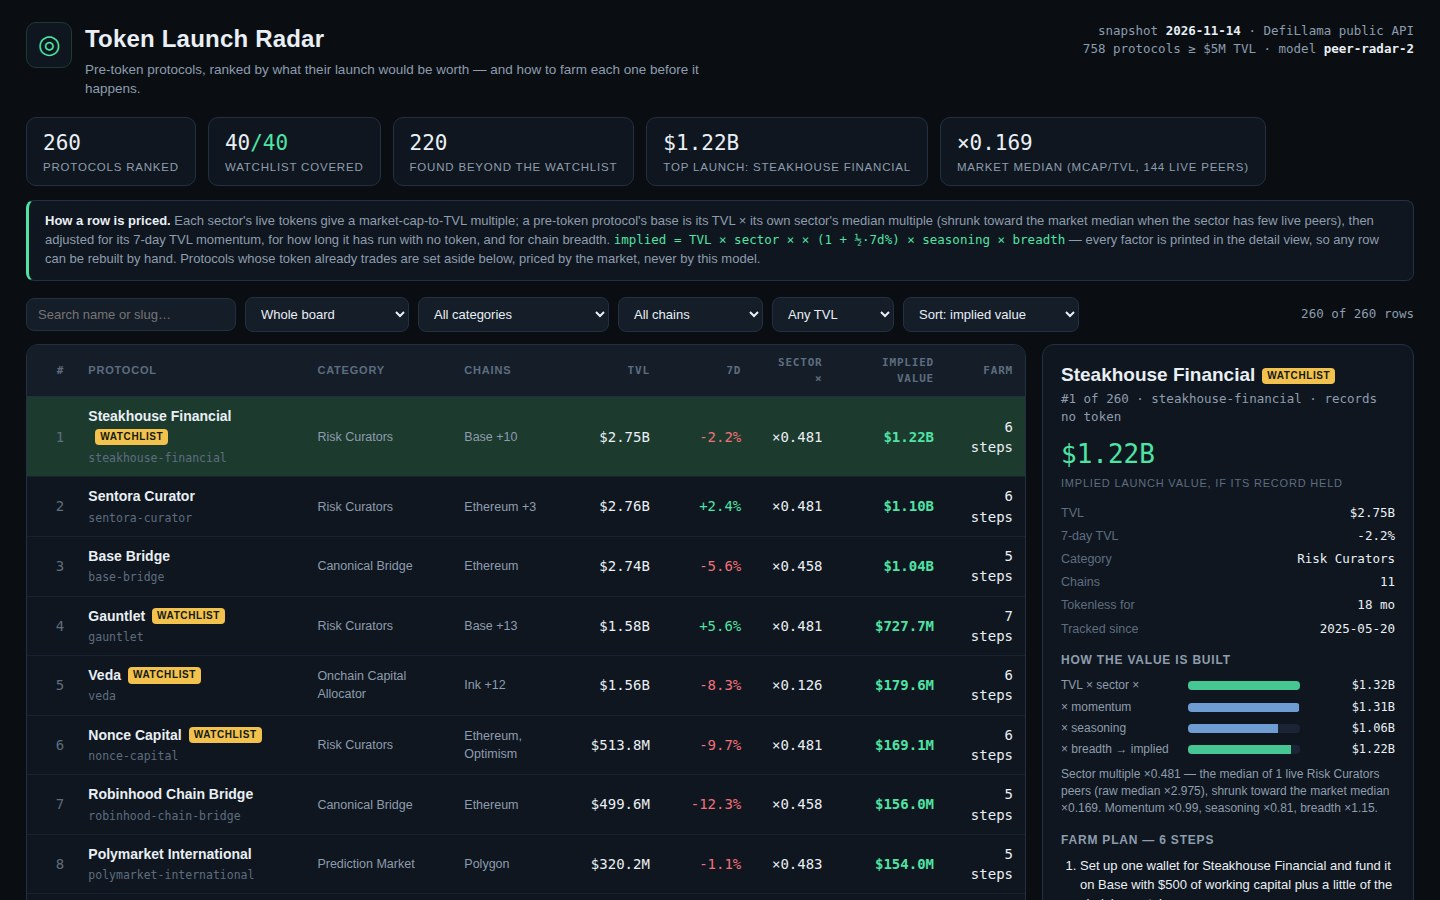
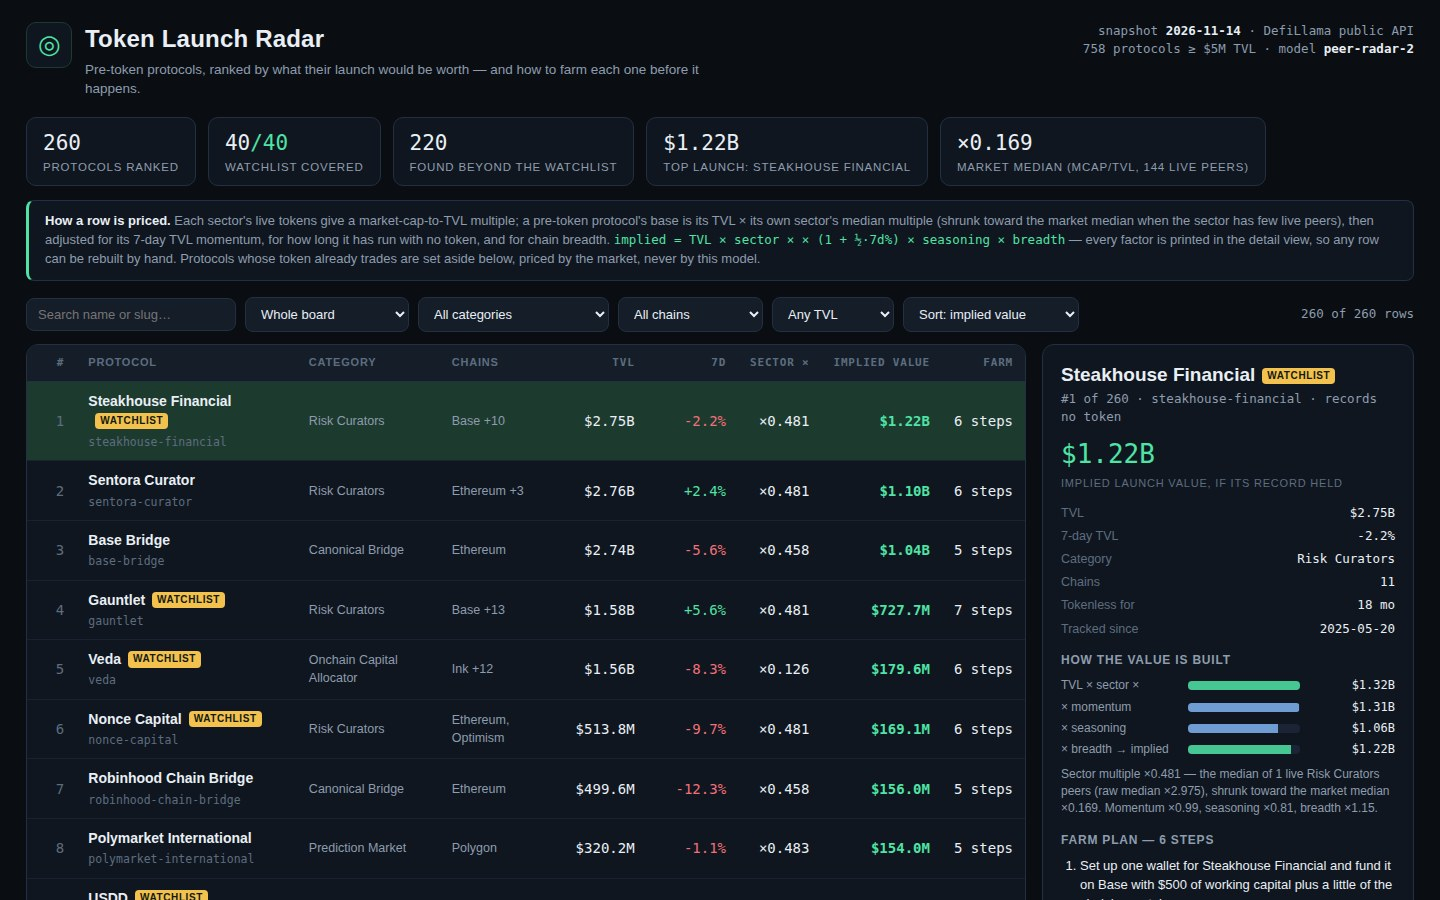
Polish: nowrap numeric columns, meta description, run timing, owner.json

diff --git a/main.ts b/main.ts
@@ -36,6 +36,7 @@ if (!existsSync(inputFile)) {
 }
 const out = arg('output', process.env.MAKEFUN_OUTPUT_DIR ?? '/output');
 
+const startedAt = Date.now();
 const snapshot = parseSnapshot(readFileSync(inputFile, 'utf8'));
 const { board, radar } = buildRadar(snapshot);
 const issue = boardIssue(board, snapshot);
@@ -82,5 +83,5 @@ writeFileSync(
 
 process.stdout.write(
   `token radar: ${snapshot.protocols.length} protocols, ${snapshot.watchlist.length} on the watchlist, ` +
-    `${board.length} rows scored (${radar.early_size} beyond the watchlist, ${radar.live_size} live shown aside)\n`,
+    `${board.length} rows scored (${radar.early_size} beyond the watchlist, ${radar.live_size} live shown aside), ${Date.now() - startedAt} ms\n`,
 );

diff --git a/dashboard/app.css b/dashboard/app.css
@@ -72,7 +72,7 @@ table.board { width: 100%; border-collapse: collapse; }
 .board tbody tr { cursor: pointer; }
 .board tbody tr:hover { background: #131b28; }
 .board tbody tr.selected { background: var(--accent-dim); }
-.board .num, .board th.num { text-align: right; font-family: var(--mono); }
+.board .num, .board th.num { text-align: right; font-family: var(--mono); white-space: nowrap; }
 td.rank { color: var(--faint); }
 td.proto .name { font-weight: 600; }
 td.proto .slug { color: var(--faint); font-family: var(--mono); font-size: 11.5px; }

diff --git a/dashboard/index.html b/dashboard/index.html
@@ -3,6 +3,7 @@
 <head>
 <meta charset="utf-8">
 <meta name="viewport" content="width=device-width, initial-scale=1">
+<meta name="description" content="Pre-token protocols ranked by implied launch value, priced from the snapshot's own figures, each with a costed farm plan.">
 <title>Token Launch Radar — pre-token protocols ranked by implied value</title>
 <link rel="stylesheet" href="app.css">
 </head>
